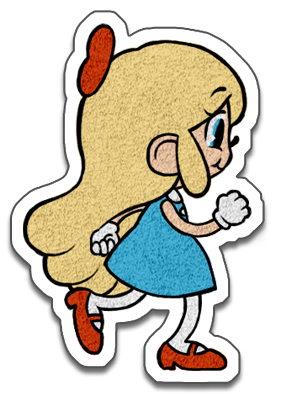
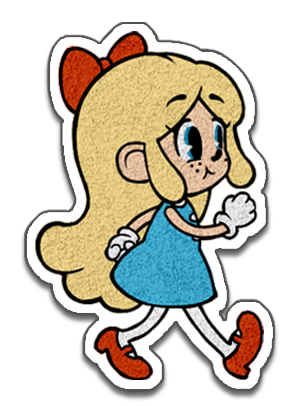
modify_player_min

diff --git a/Win32Game/GameObject.h b/Win32Game/GameObject.h
@@ -20,13 +20,15 @@ public:
 	void SetScale(const Vector3& scale) { _Scale = scale; }
 	void Setname(const std::wstring& name) { _Name = name; }
 	void SetEnable(bool state) { _Enable = state; }
-	void SetDir(Vector3& dir) { _Dir = dir; }
+	void SetFilpX(bool flipX) { _FlipX = flipX; }
+	void SetDir(Vector3 dir) { _Dir = dir; }
 	void CreateCollider();
 	void CreateText();
 	void CreateAnimater(std::wstring name);
 	Vector3 GetLocation() const { return Vector3(_Location); }
 	Vector3 GetScale() const { return Vector3(_Scale); }
-	Vector3 GetDir() const { return Vector3(_Dir); }
+	bool GetFilpX() const { return _FlipX; }
+	Vector3 GetDir() const { return _Dir; }
 	const std::wstring& GetName() const { return _Name; }
 	bool Enable() { return _Enable; }
 
@@ -49,6 +51,7 @@ private:
 	Vector3 _Location;
 	Vector3 _Scale;
 	Vector3 _Dir;
+	bool _FlipX;
 	std::wstring _Name;
 	bool _Enable = true;
 

diff --git a/Win32Game/Player.h b/Win32Game/Player.h
@@ -4,11 +4,11 @@
 
 enum class PlayerState
 {
-	idle,
-	jump,
-	walk,
-	run,
-	hit,
+	Idle,
+	Jump,
+	Walk,
+	Run,
+	Hit,
 };
 
 #include "StaminaBar.h"
@@ -24,6 +24,7 @@ public:
 	void Jump();
 	void ChangeState(PlayerState state);
 	void StateManager();
+
 
 	float GetSpeed() { return _Speed; }
 	void Run();
@@ -46,6 +47,7 @@ private:
 	bool _IsHit;
 	bool _IsRun;
 	bool _IsWalk;
+	bool _Runable;
 
 	StaminaBar* _StaminaBar;
 	StaminaBarMin* _StaminaBarMin;

diff --git a/Win32Game/Texture.h b/Win32Game/Texture.h
@@ -16,14 +16,15 @@ public:
 	HDC GetDC() { return _DC; }
 	Image* GetImage() const { return _Image; }
 	BITMAP GetBitInfo() { return _BitInfo; }
-
+	const bool GetFlipX() { return FlipX; }
+	void SetFlipX(bool flipX) {  FlipX = flipX; }
 private:
 	HDC _DC;
 	HBITMAP _Bitmap;
 	BITMAP _BitInfo;
 	Image* _Image;
 	ImageSize _ImageSize;
-
+	bool FlipX;
 	Texture();
 	~Texture();
 

diff --git a/Win32Game/GameObject.cpp b/Win32Game/GameObject.cpp
@@ -1,7 +1,7 @@
 #include "GameObject.h"
 #include "Collider.h"
 
-GameObject::GameObject() : _Location(0, 0, 0), _Scale(0, 0, 0), _Name(L""), _Collider(nullptr)
+GameObject::GameObject() : _Location(0, 0, 0), _Scale(0, 0, 0), _Name(L""), _Collider(nullptr), _FlipX(false)
 {
 }
 GameObject::~GameObject() 
